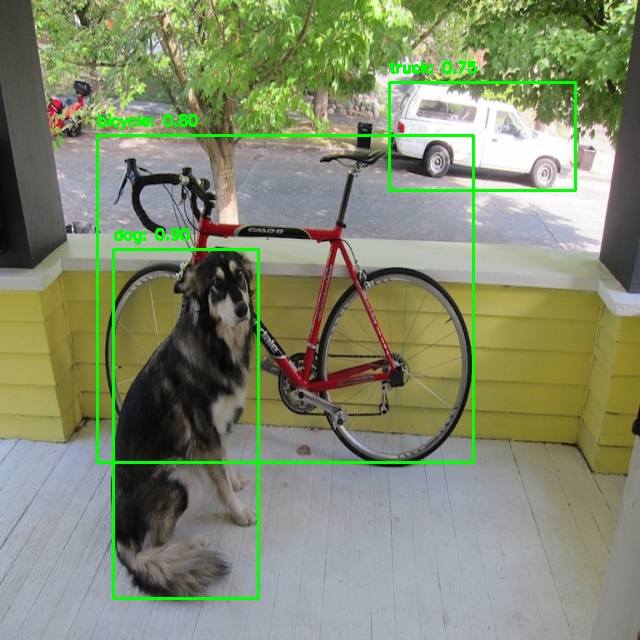
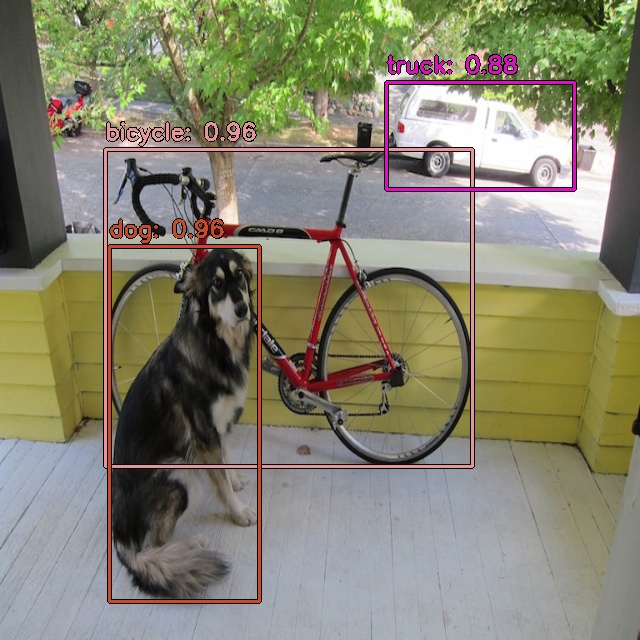
add argparse and save result in txt

Changed region(s): [[0.125, 0.0625, 0.9062, 0.9688]]

diff --git a/onnx_inference.py b/onnx_inference.py
@@ -5,6 +5,7 @@ import numpy as np
 from nms import non_max_suppression_manual,draw_boxes
 import time
 import os
+import argparse
 
 # 80 class
 names=[ 'person', 'bicycle', 'car', 'motorcycle', 'airplane', 'bus', 'train', 'truck', 'boat', 'traffic light',\
@@ -19,44 +20,60 @@ names=[ 'person', 'bicycle', 'car', 'motorcycle', 'airplane', 'bus', 'train', 't
 
 # gpu
 providers = ['CUDAExecutionProvider', 'CPUExecutionProvider'] if ort.get_device() == 'GPU' else ['CPUExecutionProvider']
-print(ort.get_device())
+print(providers)
+if __name__ == '__main__':
+    parser = argparse.ArgumentParser()
+    parser.add_argument('--input-image', type=str, default='input\dog.jpg', help='input image path')  # file/folder, 0 for webcam
+    parser.add_argument('--model-path', type=str, default='yolov7\yolov7.onnx', help='onnx model path')
+    parser.add_argument('--output-folder', type=str, default='output', help='output folder path')
+    parser.add_argument('--conf-thres', type=float, default=0.65, help='object confidence threshold')
+    parser.add_argument('--iou-thres', type=float, default=0.35, help='IOU threshold for NMS')
+    opt = parser.parse_args()
+    print(opt)
 
+    in_image_path=opt.input_image
+    out_folder_path=opt.output_folder
+    onnx_model_path = opt.model_path
+    cls_thr=opt.conf_thres
+    iou_thr=opt.iou_thres
 
-in_image_path='input\ohtani.jpg'
-out_folder_path='output'
-onnx_model_path = 'yolov7\yolov7.onnx'
+    start_time = time.time()
 
-start_time = time.time()
+    # image preprocess
+    img = cv2.imread(in_image_path)
+    img = cv2.resize(img,(640,640))
+    image = img.copy()
+    transpose_image = image.transpose((2, 0, 1))
+    transpose_image = np.expand_dims(transpose_image, 0)
+    inputs = transpose_image.astype(np.float32)
+    inputs /= 255
 
-# image preprocess
-img = cv2.imread(in_image_path)
-img = cv2.resize(img,(640,640))
-image = img.copy()
-transpose_image = image.transpose((2, 0, 1))
-transpose_image = np.expand_dims(transpose_image, 0)
-inputs = transpose_image.astype(np.float32)
-inputs /= 255
+    session = ort.InferenceSession(onnx_model_path,providers=providers)
 
-session = ort.InferenceSession(onnx_model_path,providers=providers)
+    # get onnx model input/output names
+    input_name = session.get_inputs()[0].name
+    output_name = session.get_outputs()[0].name
 
-# get onnx model input/output names
-input_name = session.get_inputs()[0].name
-output_name = session.get_outputs()[0].name
+    # inference
+    outputs = session.run([output_name], {input_name: inputs})[0]
 
-# inference
-outputs = session.run([output_name], {input_name: inputs})[0]
+    # nms
+    result=non_max_suppression_manual(np.array(outputs[0]),conf_thres=cls_thr,iou_thres=iou_thr)
+    
+    # draw bboxes
+    result_image=draw_boxes(img,result,names)
 
-# nms
-result=non_max_suppression_manual(np.array(outputs[0]))
+    # save result
+    os.makedirs(out_folder_path, exist_ok=True)
+    cv2.imwrite(os.path.join(out_folder_path, os.path.basename(in_image_path)),result_image)
+    print('Save result image at : ',os.path.join(out_folder_path, os.path.basename(in_image_path)))
 
-# draw bboxes
-result_image=draw_boxes(img,result,names)
+    with open(os.path.join(out_folder_path,os.path.splitext(os.path.basename(in_image_path))[0]+".txt"), 'w') as file:
+        file.write("x1\ty1\tx2\ty2\tbbox_conf\tclass_conf\tclass\n")
+        for row in result:
+            # 将每行转换为字符串，并写入文件
+            file.write('\t'.join(map(str, row)) + '\n')
 
-# save result
-os.makedirs(out_folder_path, exist_ok=True)
-cv2.imwrite(os.path.join(out_folder_path, os.path.basename(in_image_path)),result_image)
-
-# inference time
-end_time = time.time()
-print("Process Time: {:.6f} 秒".format(end_time - start_time))
-
+    # inference time
+    end_time = time.time()
+    print("Process Time: {:.6f} 秒".format(end_time - start_time))

diff --git a/nms.py b/nms.py
@@ -1,5 +1,6 @@
 import numpy as np
 import cv2
+import random
 def calculate_iou(boxes1, boxes2):
     x1_1, y1_1, x2_1, y2_1 = boxes1[0], boxes1[1], boxes1[2], boxes1[3]
     x1_2, y1_2, x2_2, y2_2 = boxes2[0], boxes2[1], boxes2[2], boxes2[3]
@@ -28,9 +29,15 @@ def draw_boxes(image, detections, class_names):
         class_id = int(cls)
 
         label = f'{class_names[class_id]}: {cls_conf:.2f}'
+        random_tuple = (random.randint(0, 255), random.randint(0, 255), random.randint(0, 255))
+        
+        #black border
+        border_color = (0, 0, 0)
+        cv2.rectangle(image, (x1, y1), (x2, y2), border_color, 3)
+        cv2.rectangle(image, (x1, y1), (x2, y2), random_tuple, 2)
 
-        cv2.rectangle(image, (x1, y1), (x2, y2), (0, 255, 0), 2)
-        cv2.putText(image, label, (x1, y1 - 10), cv2.FONT_HERSHEY_SIMPLEX, 0.5, (0, 255, 0), 2)
+        cv2.putText(image, label, (x1, y1 - 10), cv2.FONT_HERSHEY_SIMPLEX, 0.75, border_color, 3)
+        cv2.putText(image, label, (x1, y1 - 10), cv2.FONT_HERSHEY_SIMPLEX, 0.75, random_tuple, 2)
 
     return image
 
